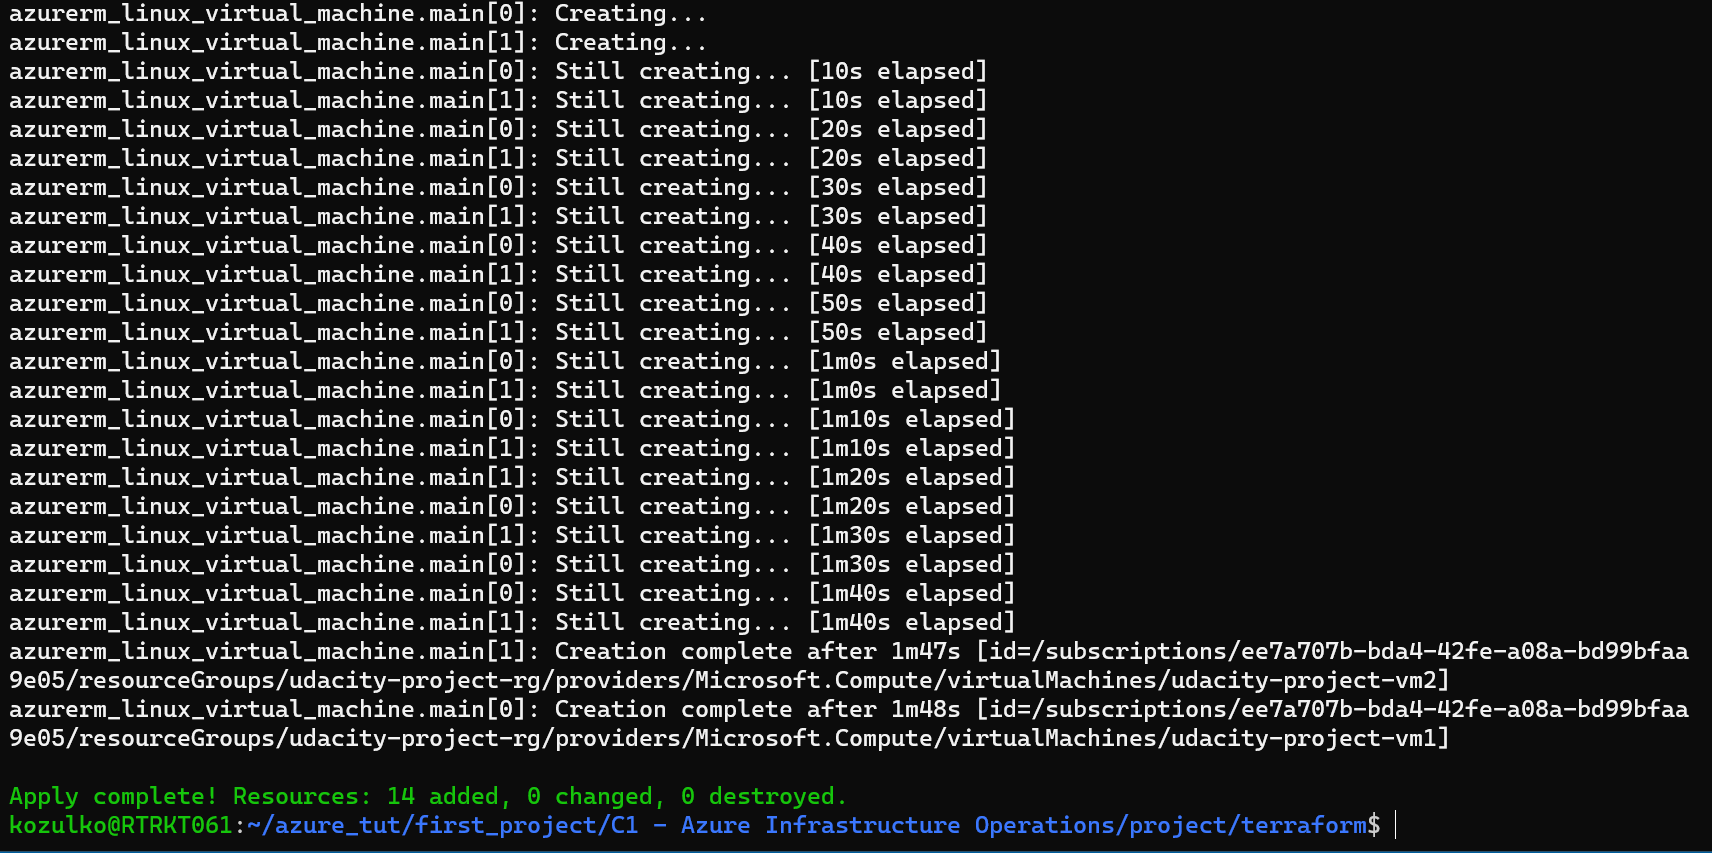
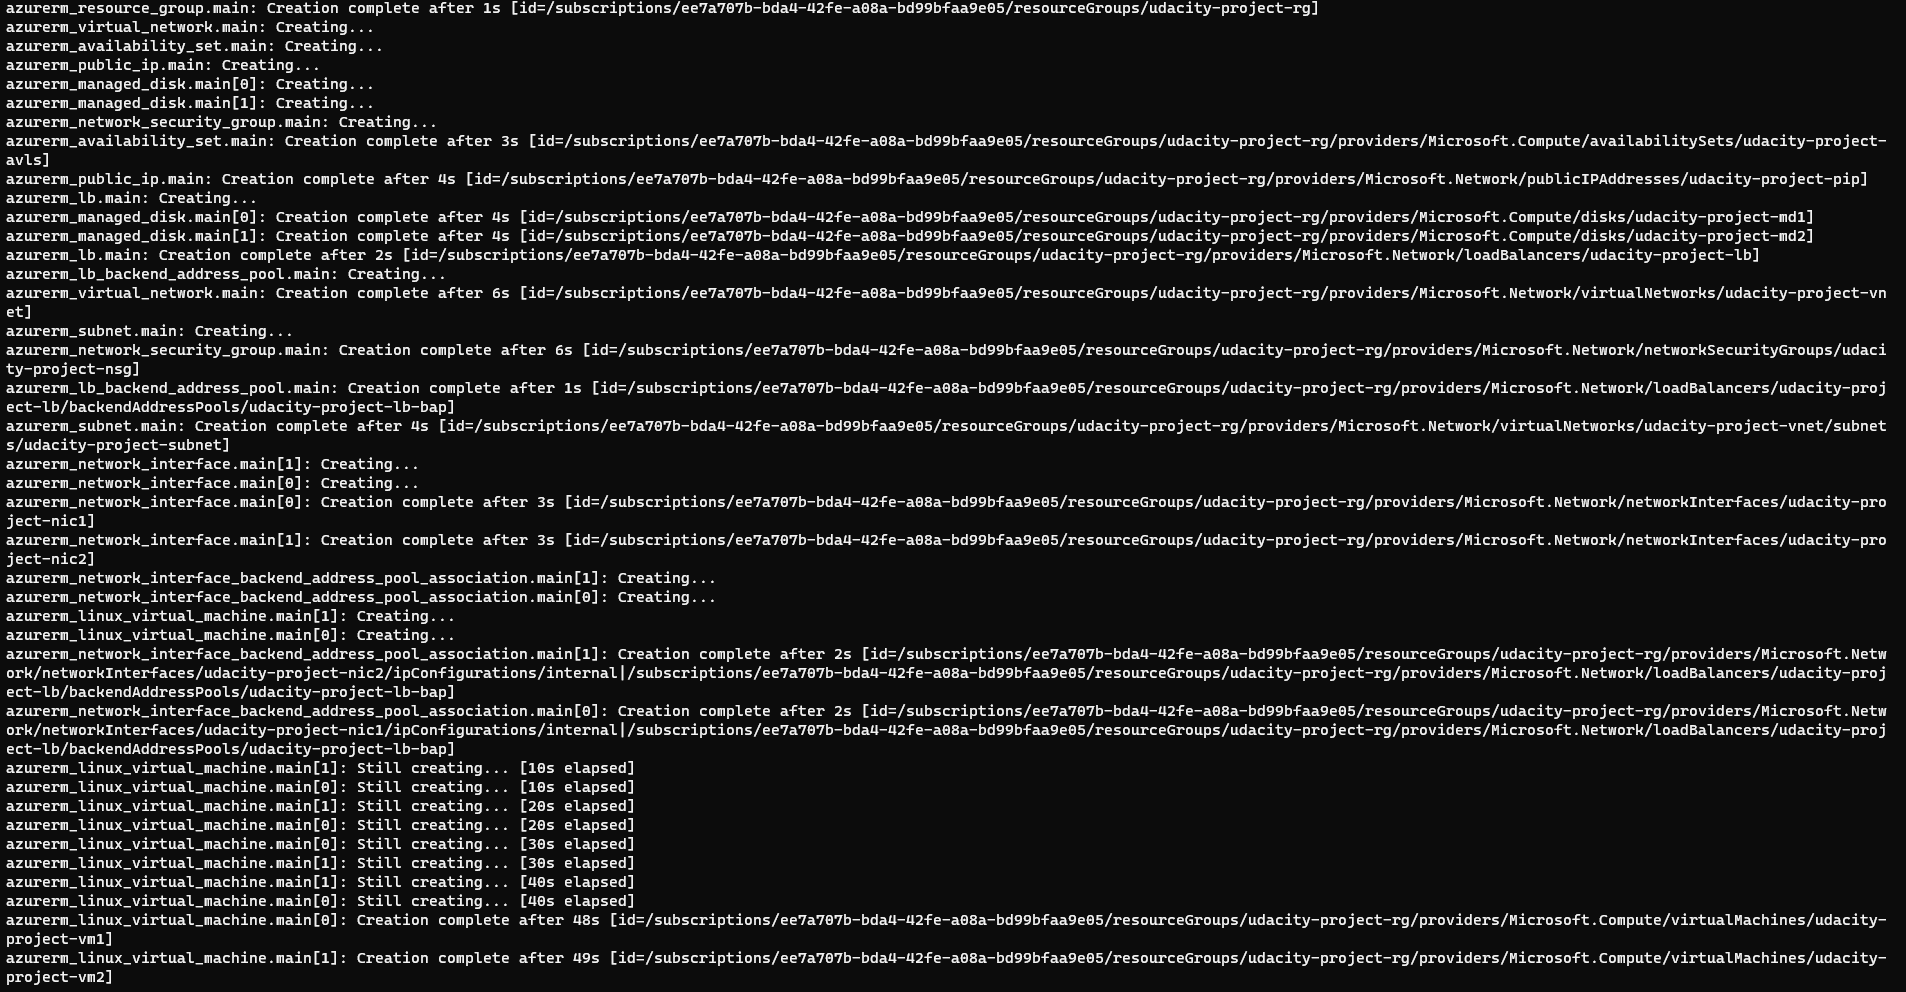
Updated readme and a new terraform apply screenshot.

Changed region(s): [[0.0, 0.0, 0.9907, 1.0]]

diff --git a/README.md b/README.md
@@ -2,6 +2,7 @@
 
 ### Introduction
 For this project, you will write a Packer template and a Terraform template to deploy a customizable, scalable web server in Azure.
+The web server you are going to create will include a virtual network connecting arbitrary number of user defined virtual machines.
 
 ### Getting Started
 1. Clone this repository
@@ -20,14 +21,48 @@ For this project, you will write a Packer template and a Terraform template to d
 1. You should clone this repository to your local machine.
 2. Make sure you are logged in to your Azure account in the Azure CLI.
 3. Open your terminal and move to root directory of the cloned repository.
-4. Run $bash getting_started.sh
-5. There you will specify if you would like to use default or user defined parameters.
+4. Run
+```bash
+bash getting_started.sh
+```
+This command will firstly create a custom policy that ensures all created resources are tagged.
+You can see the created policy by running
+```bash
+az policy assignment list
+```
+The command "$bash getting_started.sh" will also deploy a packer image of a customized Virtual Machine by running
+```bash
+packer build project/packer/server.json
+```
+Deploying the packer image is going to take some time, so keep that in mind.
+After the packer image has been deployed, we are going to switch to the terraform folder where we have our .tf scripts.
+By running
+```bash
+terraform init
+```
+terraform will be initialized and we can continue using it with
+```bash
+terraform plan -out solution.plan
+```
+This command will save planned infrastructure to a file "solution.plan".
+After the infrastructure has been validated and saved, we can deploy it by using
+```bash
+terraform apply "solution.plan"
+```
+We can see our infrastructure using the command.
+```bash
+terraform show
+```
+
+5. You will be asked to choose between default or user defined set of parameters for your resources.
 6. If you chose default, you don't need to do anything else anymore.
 7. If you didn't choose default, you will need to specify info for the resource group where your packer image will be deployed.
 8. It may take a while to build your packer image.
 9. Once your packer image is finished, you will need to specify info for your resources.
+It is possible to edit vars.tf file to define your own default values for the resources.
 
 
 ### Output
 If you followed all the steps, you should have 2 new resource groups on your Azure portal.
 One group will have a packer image resource and the other one will have a virtual network with running virtual machines.
+![image](project/terraform/terraform_apply_success.PNG)
